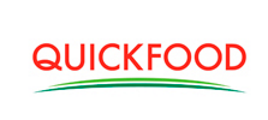
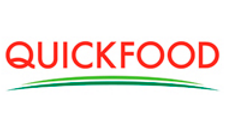
fix clients img resize

Changed region(s): [[0.0, 0.325, 0.9868, 0.6], [0.0308, 0.625, 0.9559, 0.775]]

diff --git a/about.html b/about.html
@@ -237,15 +237,15 @@
         <div class="container py-5 mb-5">
             <div class="bg-white">
                 <div class="owl-carousel vendor-carousel">
-                    <img src="img/vendor-1.png" alt="vendor-1" width="123" height="65">
-                    <img src="img/vendor-2.png" alt="vendor-2" width="123" height="65">
-                    <img src="img/vendor-3.png" alt="vendor-3" width="123" height="65">
-                    <img src="img/vendor-4.png" alt="vendor-4" width="123" height="65">
-                    <img src="img/vendor-5.png" alt="vendor-5" width="123" height="65">
-                    <img src="img/vendor-6.png" alt="vendor-6" width="123" height="65">
-                    <img src="img/vendor-7.png" alt="vendor-7" width="123" height="65">
-                    <img src="img/vendor-8.png" alt="vendor-8" width="123" height="65">
-                    <img src="img/vendor-9.png" alt="vendor-9" width="123" height="65">
+                    <img src="img/vendor-1.png" alt="vendor-1">
+                    <img src="img/vendor-2.png" alt="vendor-2">
+                    <img src="img/vendor-3.png" alt="vendor-3">
+                    <img src="img/vendor-4.png" alt="vendor-4">
+                    <img src="img/vendor-5.png" alt="vendor-5">
+                    <img src="img/vendor-6.png" alt="vendor-6">
+                    <img src="img/vendor-7.png" alt="vendor-7">
+                    <img src="img/vendor-8.png" alt="vendor-8">
+                    <img src="img/vendor-9.png" alt="vendor-9">
                 </div>
             </div>
         </div>
@@ -353,7 +353,7 @@
     <script src="lib/owlcarousel/owl.carousel.min.js"></script>
 
     <!-- Template Javascript -->
-    <script src="js/main.js?v=2.1"></script>
+    <script src="js/main.js?v=2.2"></script>
 
     <a href="https://api.whatsapp.com/send?phone=5491150951408&text=Hola%20Athicon,%20tengo%20una%20consulta%21%20Podes%20ayudarme?"
         class="float" target="_blank">

diff --git a/index.html b/index.html
@@ -910,15 +910,15 @@
         <div class="container py-5 mb-5">
             <div class="bg-white">
                 <div class="owl-carousel vendor-carousel">
-                    <img src="img/vendor-1.png" alt="vendor-1" width="123" height="65">
-                    <img src="img/vendor-2.png" alt="vendor-2" width="123" height="65">
-                    <img src="img/vendor-3.png" alt="vendor-3" width="123" height="65">
-                    <img src="img/vendor-4.png" alt="vendor-4" width="123" height="65">
-                    <img src="img/vendor-5.png" alt="vendor-5" width="123" height="65">
-                    <img src="img/vendor-6.png" alt="vendor-6" width="123" height="65">
-                    <img src="img/vendor-7.png" alt="vendor-7" width="123" height="65">
-                    <img src="img/vendor-8.png" alt="vendor-8" width="123" height="65">
-                    <img src="img/vendor-9.png" alt="vendor-9" width="123" height="65">
+                    <img src="img/vendor-1.png" alt="vendor-1">
+                    <img src="img/vendor-2.png" alt="vendor-2">
+                    <img src="img/vendor-3.png" alt="vendor-3">
+                    <img src="img/vendor-4.png" alt="vendor-4">
+                    <img src="img/vendor-5.png" alt="vendor-5">
+                    <img src="img/vendor-6.png" alt="vendor-6">
+                    <img src="img/vendor-7.png" alt="vendor-7">
+                    <img src="img/vendor-8.png" alt="vendor-8">
+                    <img src="img/vendor-9.png" alt="vendor-9">
                 </div>
             </div>
         </div>
@@ -1055,7 +1055,7 @@
     <script src="lib/owlcarousel/owl.carousel.min.js"></script>
 
     <!-- Template Javascript -->
-    <script src="js/main.js?v=2.1"></script>
+    <script src="js/main.js?v=2.2"></script>
 
 
     <script>

diff --git a/index_es.html b/index_es.html
@@ -1,0 +1,32 @@
+<!DOCTYPE html>
+<html lang="es">
+    <head>
+    <meta charset="utf-8">
+		<title>Athicon - Obras de Ingenieria</title>
+		<meta name="author" content="Adhentux">
+		<meta content="width=device-width, initial-scale=1.0" name="viewport">
+		<meta name="keywords" content="Obras Ingenieria, Instalaciones, Obras Civiles, Obras Industriales">
+		<meta name="description"
+			content="No solo construimos grandes obras, sino sueños y comunidades vibrantes. Guiados por Construyendo el Futuro, fusionamos calidad y creatividad en cada proyecto. Nuestro equipo apasionado, transparencia y compromiso sostenible nos distinguen, creando legados duraderos en un mercado competitivo.">
+
+		<meta name="og:title" content="Athicon - Obras de Ingenieria">
+		<meta name="og:description"
+			content="No solo construimos grandes obras, sino sueños y comunidades vibrantes. Guiados por Construyendo el Futuro, fusionamos calidad y creatividad en cada proyecto. Nuestro equipo apasionado, transparencia y compromiso sostenible nos distinguen, creando legados duraderos en un mercado competitivo.">
+		<meta name="og:type" content="website">
+		<meta name="og:image" content="http://www.athicon.com/img/logo-2023-blanco-5.svg">
+		<meta name="og:url" content="http://www.athicon.com/">
+		<meta name="og:site" content="ATHICON">
+		<meta name="format-detection" content="telephone=no">
+
+		<!-- Favicons -->
+		<link rel="icon" type="image/png" href="favicon.png">
+    </head>
+    <body id="body">
+
+		<script src="js/jquery.min.js"></script> 
+		<script type="text/javascript">
+		window.location.replace("http://www.athicon.com/index.html");
+		</script>
+
+    </body>
+</html>

diff --git a/js/main.js b/js/main.js
@@ -173,7 +173,7 @@
         smartSpeed: 1000,
         responsive: {
             0: {
-                items: 2
+                items: 3
             },
             576: {
                 items: 4
